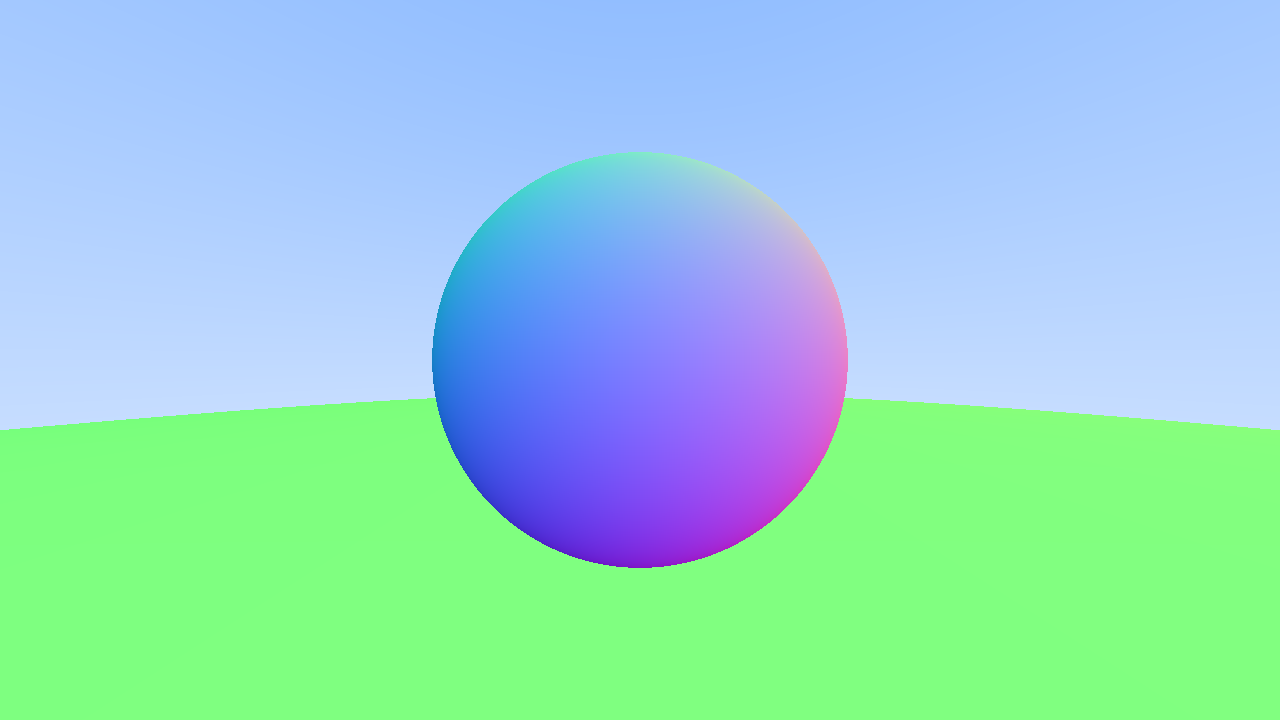
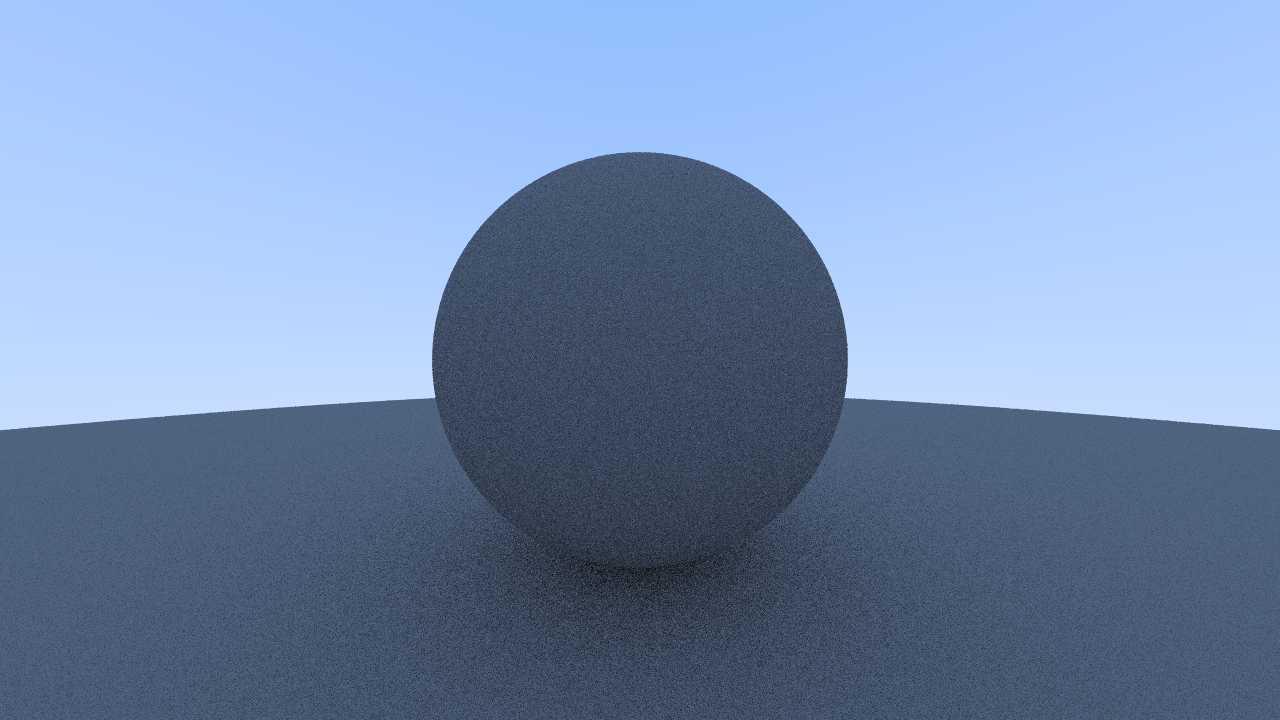
Added antialiasing and diffuse materials.

diff --git a/Raytracing/camera.h b/Raytracing/camera.h
@@ -15,7 +15,8 @@ class camera
     public:
 
         double aspect_ratio = 1.0;  // Ratio of image width over height
-        int    image_width = 1280;  // Rendered image width in pixel count
+        int image_width = 1280;  // Rendered image width in pixel count
+        int samples_per_pixel = 10;  //count of random samples
 
         void render(const hittable& world)
         {
@@ -25,16 +26,19 @@ class camera
 
             std::vector<unsigned char> image_data(image_width * image_height * 3);
 
-            for (int indx = 0; indx < image_height; indx++) {
+            for (int indx = 0; indx < image_height; indx++)
+            {
                 std::clog << "\rScanlines remaining: " << (image_height - indx) << ' ' << std::flush;
-                for (int indx1 = 0; indx1 < image_width; indx1++) {
-                    auto pixel_center = pixel00_loc + (indx1 * pixel_delta_u) + (indx * pixel_delta_v);
-                    auto ray_direction = pixel_center - center;
-                    ray r(center, ray_direction);
-
-                    color pixel_color = ray_color(r, world);
+                for (int indx1 = 0; indx1 < image_width; indx1++)
+                {
+                    color pixel_color(0, 0, 0);
+                    for (int sample = 0; sample < samples_per_pixel; sample++)
+                    {
+                        ray r = get_ray(indx1, indx);
+                        pixel_color += ray_color(r, world);
+                    }
                     vec3 colorV;
-                    write_color(std::cout, pixel_color, colorV);
+                    write_color(std::cout, pixel_samples_scale * pixel_color, colorV);
 
                     int index = (indx * image_width + indx1) * 3;
 
@@ -52,6 +56,7 @@ class camera
     private:
 
         int    image_height;   // Rendered image height
+        double pixel_samples_scale;  // Color scale factor for a sum of pixel samples
         point3 center;         // Camera center
         point3 pixel00_loc;    // Location of pixel 0, 0
         vec3   pixel_delta_u;  // Offset to pixel to the right
@@ -61,6 +66,8 @@ class camera
         {
             image_height = int(image_width / aspect_ratio);
             image_height = (image_height < 1) ? 1 : image_height;
+
+            pixel_samples_scale = 1.0 / samples_per_pixel;
 
             center = point3(0, 0, 0);
 
@@ -83,17 +90,54 @@ class camera
             pixel00_loc = viewport_upper_left + 0.5 * (pixel_delta_u + pixel_delta_v);
         }
 
+        ray get_ray(int i, int j) const
+        {
+            // Construct a camera ray originating from the origin and directed at randomly sampled
+            // point around the pixel location i, j.
+
+            auto offset = sample_square();
+            auto pixel_sample = pixel00_loc
+                + ((i + offset.x()) * pixel_delta_u)
+                + ((j + offset.y()) * pixel_delta_v);
+
+            auto ray_origin = center;
+            auto ray_direction = pixel_sample - ray_origin;
+
+            return ray(ray_origin, ray_direction);
+        }
+
+        vec3 sample_square() const
+        {
+            // Returns the vector to a random point in the [-.5,-.5]-[+.5,+.5] unit square.
+            return vec3(random_double() - 0.5, random_double() - 0.5, 0);
+        }
+
+
         color ray_color(const ray& r, const hittable& world) const 
         {
-            hit_record rec;
+            ray current_ray = r;
+            color accumulated_color(1.0, 1.0, 1.0); // start with white light
+            const int max_depth = 50; // prevent infinite bounces
+            int depth = 0;
 
-            if (world.hit(r, interval(0, infinity), rec)) {
-                return 0.5 * (rec.normal + color(1, 1, 1));
+            while (depth < max_depth) {
+                hit_record rec;
+                if (world.hit(current_ray, interval(0.001, infinity), rec)) {
+                    vec3 direction = random_on_hemisphere(rec.normal);
+                    accumulated_color *= 0.5; // apply attenuation
+                    current_ray = ray(rec.p, direction);
+                    depth++;
+                }
+                else {
+                    vec3 unit_direction = unit_vector(current_ray.direction());
+                    auto a = 0.5 * (unit_direction.y() + 1.0);
+                    color background = (1.0 - a) * color(1.0, 1.0, 1.0) +
+                        a * color(0.5, 0.7, 1.0);
+                    return accumulated_color * background;
+                }
             }
 
-            vec3 unit_direction = unit_vector(r.direction());
-            auto a = 0.5 * (unit_direction.y() + 1.0);
-            return (1.0 - a) * color(1.0, 1.0, 1.0) + a * color(0.5, 0.7, 1.0);
+            return color(0, 0, 0);
         }
 };
 

diff --git a/Raytracing/vec3.h b/Raytracing/vec3.h
@@ -52,6 +52,16 @@ public:
         return e[0] * e[0] + e[1] * e[1] + e[2] * e[2];
     }
 
+    static vec3 random()
+    {
+        return vec3(random_double(), random_double(), random_double());
+    }
+
+    static vec3 random(double min, double max)
+    {
+        return vec3(random_double(min, max), random_double(min, max), random_double(min, max));
+    }
+
     void* get_data()
     {
         return reinterpret_cast<void*>(e);
@@ -110,6 +120,32 @@ inline vec3 cross(const vec3& u, const vec3& v)
 inline vec3 unit_vector(const vec3& v)
 {
     return v / v.length();
+}
+
+inline vec3 random_unit_vector()
+{
+    while (true)
+    {
+        auto p = vec3::random(-1, 1);
+        auto lensq = p.length_squared();
+        if (1e-160 < lensq && lensq <= 1)
+        {
+            return p / sqrt(lensq);
+        }
+    }
+}
+
+inline vec3 random_on_hemisphere(const vec3& normal)
+{
+    vec3 on_unit_sphere = random_unit_vector();
+    if (dot(on_unit_sphere, normal) > 0.0)
+    {
+        return on_unit_sphere;
+    }
+    else 
+    {
+        return -on_unit_sphere;
+    }
 }
 
 #endif

diff --git a/Raytracing/interval.h b/Raytracing/interval.h
@@ -13,16 +13,26 @@ public:
 
     interval(double min, double max) : min(min), max(max) {}
 
-    double size() const {
+    double size() const
+    {
         return max - min;
     }
 
-    bool contains(double x) const {
+    bool contains(double x) const
+    {
         return min <= x && x <= max;
     }
 
-    bool surrounds(double x) const {
+    bool surrounds(double x) const
+    {
         return min < x && x < max;
+    }
+
+    double clamp(double x) const
+    {
+        if (x < min) return min;
+        if (x > max) return max;
+        return x;
     }
 
     static const interval empty, universe;

diff --git a/Raytracing/utility.h b/Raytracing/utility.h
@@ -7,6 +7,8 @@
 #include <iostream>
 #include <limits>
 #include <memory>
+#include <cstdlib>
+#include <random>
 
 #include "interval.h"
 
@@ -23,6 +25,18 @@ const double pi = 3.1415926535897932385;
 
 inline double degrees_to_radians(double degrees) {
     return degrees * pi / 180.0;
+}
+
+inline double random_double()
+{
+    static std::uniform_real_distribution<double> distribution(0.0, 1.0);
+    static std::mt19937 generator;
+    return distribution(generator);
+}
+
+inline double random_double(double min, double max)
+{
+    return min + (max - min) * random_double();
 }
 
 // Common Headers

diff --git a/Raytracing/Color.h b/Raytracing/Color.h
@@ -19,9 +19,10 @@ void write_color(std::ostream& out, const color& pixel_color, vec3 &ColorV)
     auto b = pixel_color.z();
 
     // Translate the [0,1] component values to the byte range [0,255].
-    int rbyte = int(255.999 * r);
-    int gbyte = int(255.999 * g);
-    int bbyte = int(255.999 * b);
+    static const interval intensity(0.0, 0.999);
+    int rbyte = int(256 * intensity.clamp(r));
+    int gbyte = int(256 * intensity.clamp(g));
+    int bbyte = int(256 * intensity.clamp(b));
 
     ColorV = *new vec3(rbyte, gbyte, bbyte);
 

diff --git a/Raytracing/Raytracing.cpp b/Raytracing/Raytracing.cpp
@@ -67,6 +67,7 @@ int main()
     camera cam;
 
     cam.aspect_ratio = 16.0 / 9.0;
+    cam.samples_per_pixel = 10;
 
     cam.render(worldOfSpheres);
 
